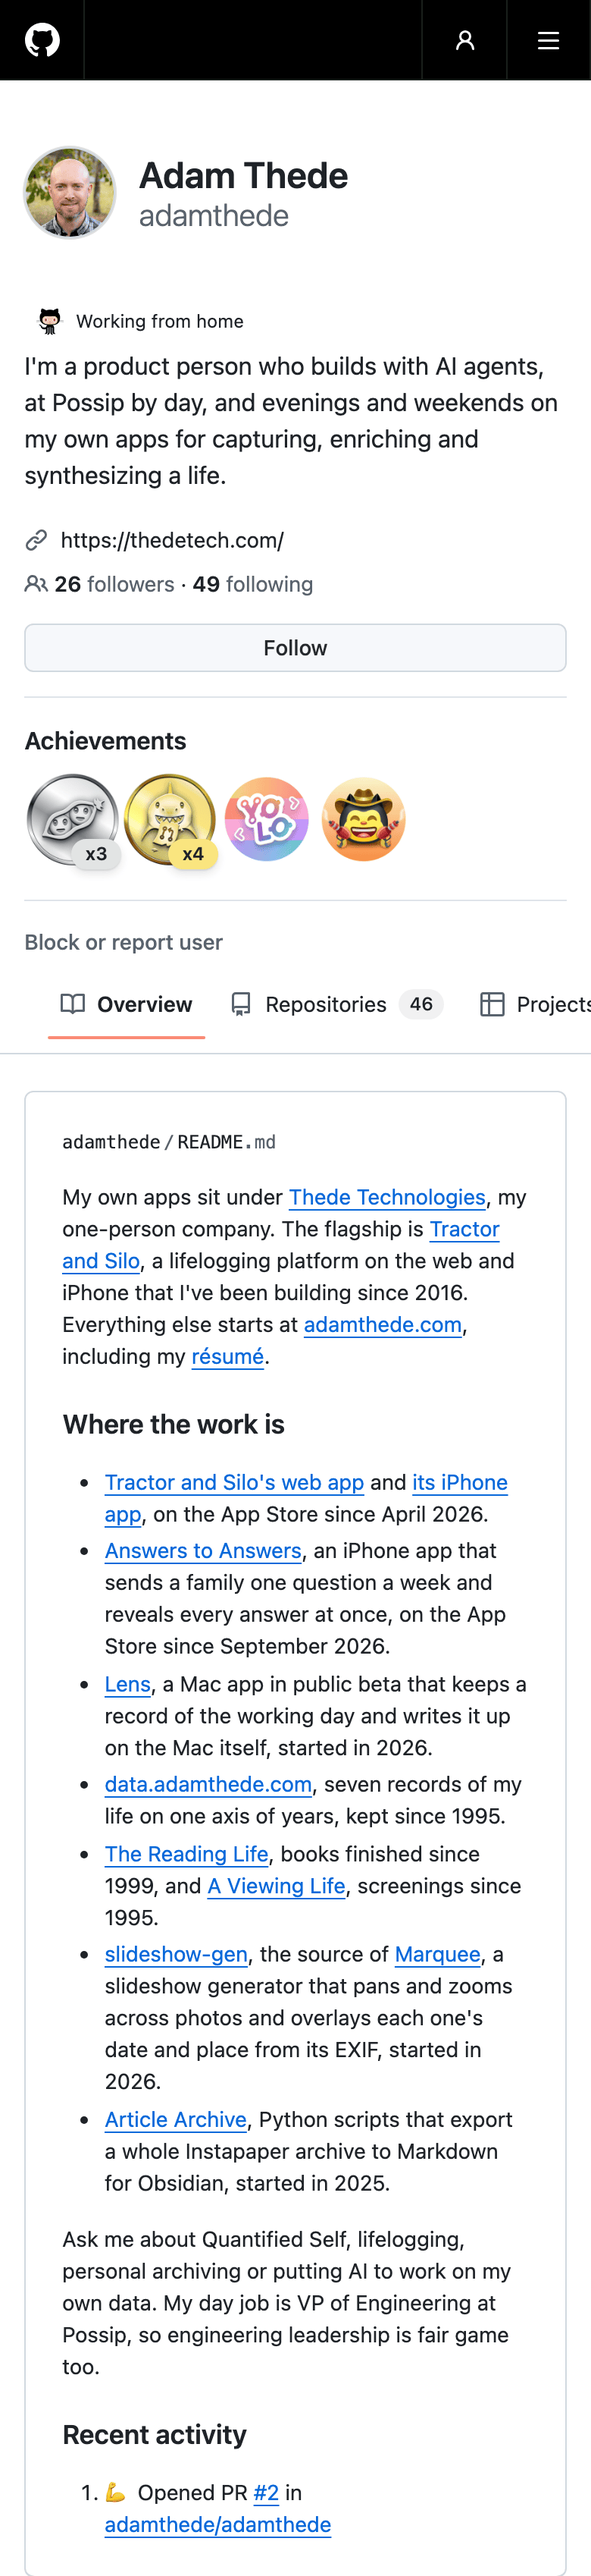
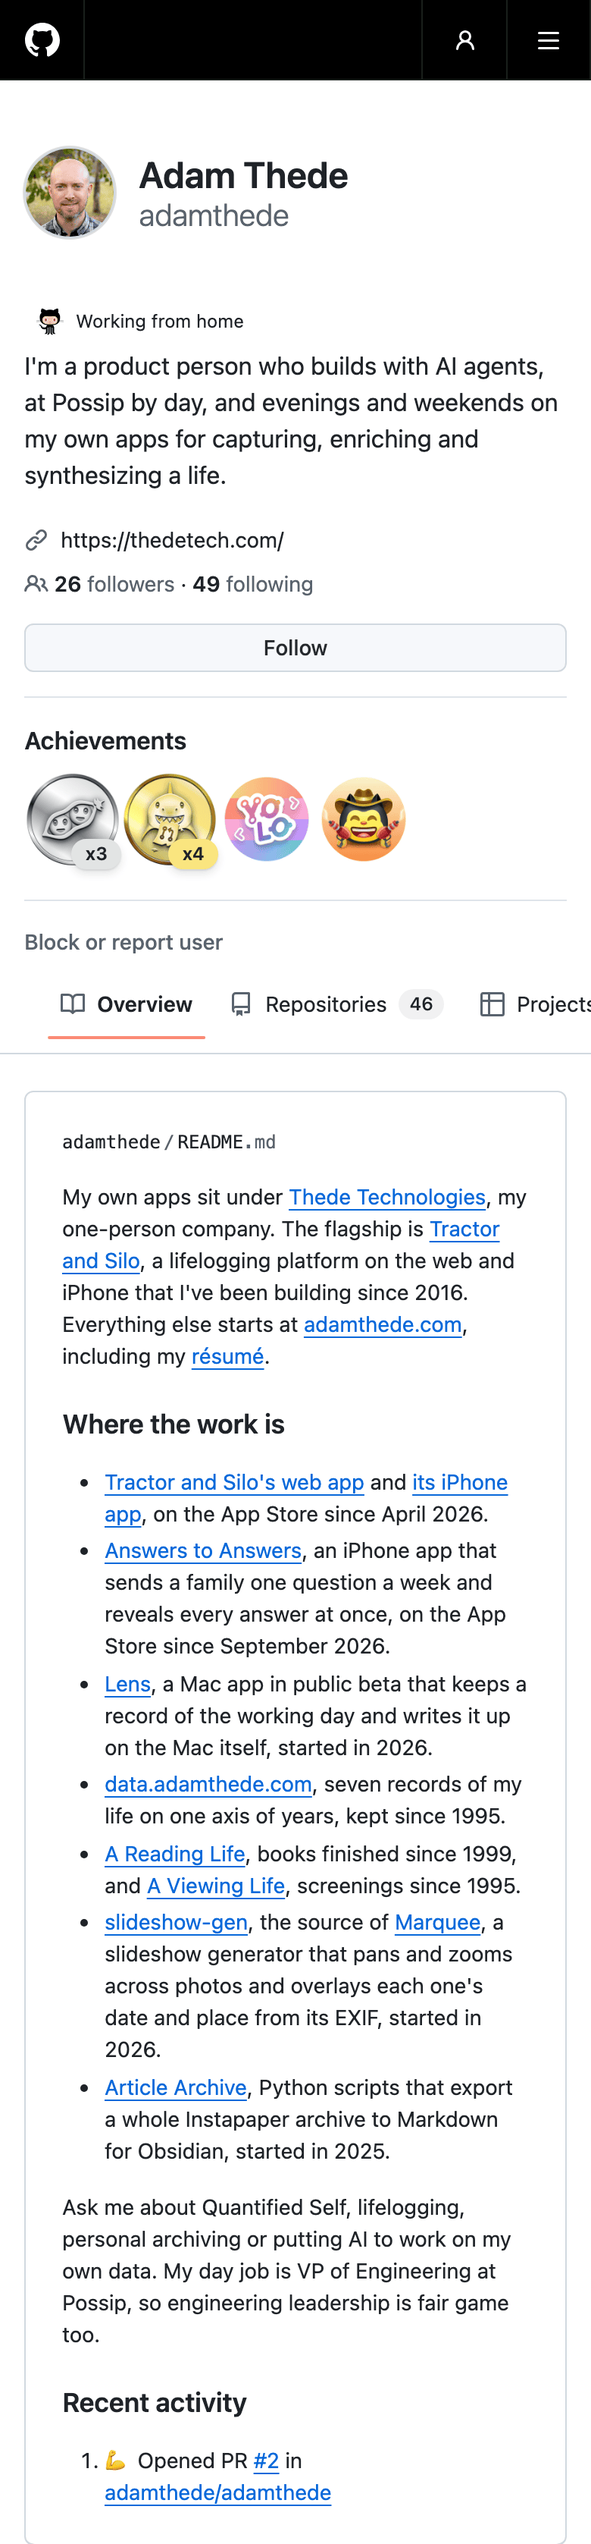
docs(qa): re-shoot the where-the-work-is profile with A Reading Life
Claude-Session: https://claude.ai/code/session_01QUKHas7AYz7h3fzc1kVgau

diff --git a/docs/qa/2026-11-02-readme-one-identity/pr-2/README.md b/docs/qa/2026-11-02-readme-one-identity/pr-2/README.md
@@ -2,14 +2,14 @@
 
 Captured 2026-11-02 with Playwright (Chromium headless shell 1248) and compressed with pngquant.
 
-## After state, at PR head a57968f
+## After state, at PR head ac1dade
 
-Each shot is the live github.com/adamthede profile, in the light theme, with the README article's contents replaced by GitHub's own markdown-API render (gfm mode, adamthede/adamthede context) of the README that merging this PR into main produces. That merge is computed with `git merge-tree --write-tree origin/main a57968f` against main at 81ad993, so the activity entry is main's current one. Nothing else on the page was changed, so the sidebar, bio and pinned repos are live.
+Each shot is the live github.com/adamthede profile, in the light theme, with the README article's contents replaced by GitHub's own markdown-API render (gfm mode, adamthede/adamthede context) of the README that merging this PR into main produces. That merge is computed with `git merge-tree --write-tree origin/main ac1dade` against main at 81ad993, so the activity entry is main's current one. Nothing else on the page was changed, so the sidebar, bio and pinned repos are live.
 
 - after-profile-desktop-1280.png: 1280 px viewport, from the top of the page to the end of the README. The seven-entry list sits between the opening paragraph and "Ask me about", and the streak card is gone.
 - after-profile-phone-390.png: 390 px viewport at 2x, from the top of the page to the end of the README. The seven entries wrap without horizontal scroll.
 
-These replace the first shots, taken at head 30be0f0 with eight entries, which stay reachable at commit a457a0137459a165c1ca4b8cacf57cf54ae5234c.
+These replace two earlier sets. The first, at head 30be0f0 with eight entries, stays reachable at commit a457a0137459a165c1ca4b8cacf57cf54ae5234c. The second, at head a57968f with "The Reading Life", stays reachable at commit 2efc8a4e9299064d754105642d3c9d4675bbbcd7. Renaming it "A Reading Life" shortened that entry from three lines to two at 390 px, so the shots were taken again.
 
 Before shots of the same README, minus this section and with the streak card, are in ../pr-1/.
 
